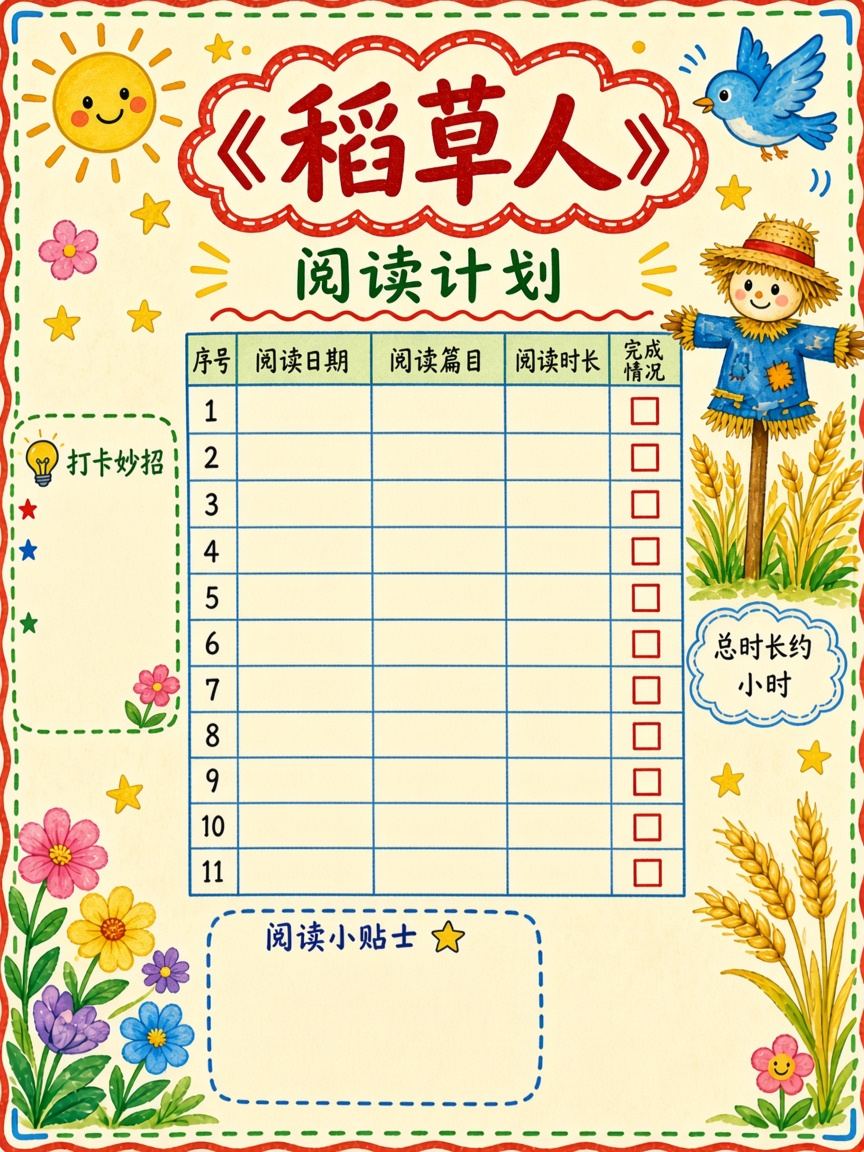
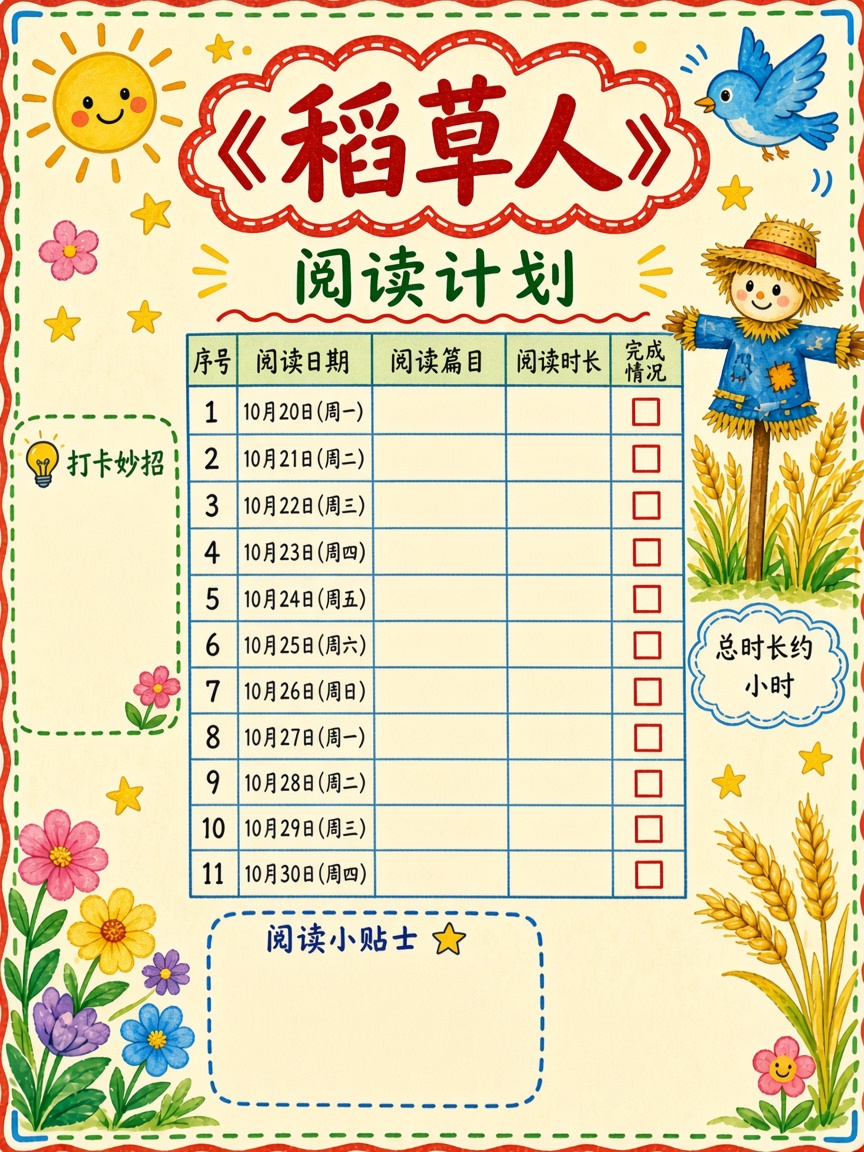
Deliver verified blank 《稻草人》 reading plan images
Provide a clean fill-in template with 手抄报 removed, table body
cleared, tip boxes emptied, duration number blank, and signatures removed.

diff --git a/WebContent/稻草人阅读计划-留白版.html b/WebContent/稻草人阅读计划-留白版.html
@@ -1,0 +1,233 @@
+<!DOCTYPE html>
+<html lang="zh-CN">
+<head>
+  <meta charset="UTF-8" />
+  <title>《稻草人》阅读计划</title>
+  <link href="https://fonts.googleapis.com/css2?family=Ma+Shan+Zheng&family=ZCOOL+KuaiLe&family=Noto+Sans+SC:wght@600;700&display=swap" rel="stylesheet" />
+  <style>
+    * { box-sizing: border-box; margin: 0; padding: 0; }
+    body { background: #c9b89a; }
+    .poster {
+      width: 1240px; height: 1754px; margin: 0 auto; position: relative;
+      background:
+        radial-gradient(circle at 15% 12%, #fff7c8 0%, transparent 35%),
+        radial-gradient(circle at 85% 18%, #e8f4ff 0%, transparent 30%),
+        #fff8dc;
+      overflow: hidden;
+      font-family: "Noto Sans SC", sans-serif;
+      color: #2b2418;
+    }
+    .border-outer {
+      position: absolute; inset: 22px;
+      border: 7px dashed #e85d4c;
+      border-radius: 28px;
+      pointer-events: none; z-index: 5;
+    }
+    .border-inner {
+      position: absolute; inset: 38px;
+      border: 3px dashed #3aa87a;
+      border-radius: 22px;
+      pointer-events: none; z-index: 5;
+    }
+    .content { position: relative; z-index: 2; height: 100%; padding: 70px 90px 60px; }
+    .title {
+      text-align: center; margin-bottom: 8px;
+    }
+    .title h1 {
+      display: inline-block;
+      font-family: "Ma Shan Zheng", cursive;
+      font-size: 86px; color: #e23b2e; letter-spacing: 0.08em;
+      padding: 8px 40px 12px;
+      border: 5px solid #e23b2e;
+      border-radius: 48% 52% 50% 50% / 60% 60% 40% 40%;
+      background: #fffdf5;
+      line-height: 1.1;
+    }
+    .subtitle {
+      margin-top: 14px;
+      font-family: "ZCOOL KuaiLe", cursive;
+      font-size: 34px; color: #2f9b57; letter-spacing: 0.35em;
+    }
+    .subtitle::before, .subtitle::after {
+      content: "═══";
+      color: #f0a030; margin: 0 10px; letter-spacing: 0;
+    }
+    .layout {
+      margin-top: 28px;
+      display: grid;
+      grid-template-columns: 210px 1fr 230px;
+      gap: 18px;
+      align-items: start;
+    }
+    .tips-card, .duration-card, .note-card {
+      border: 3px dashed #3aa87a;
+      border-radius: 16px;
+      background: rgba(255,255,255,0.55);
+      padding: 14px 12px 18px;
+      min-height: 220px;
+    }
+    .tips-card h3, .note-card h3, .duration-card h3 {
+      font-family: "ZCOOL KuaiLe", cursive;
+      font-size: 26px; text-align: center; margin-bottom: 10px;
+    }
+    .tips-card h3 { color: #2f9b57; }
+    .note-card { border-color: #4a90c8; min-height: 160px; }
+    .note-card h3 { color: #2f78b0; }
+    .duration-card {
+      border: 4px solid #4a90c8;
+      border-radius: 50%;
+      width: 200px; height: 200px;
+      margin: 20px auto 0;
+      display: flex; flex-direction: column; align-items: center; justify-content: center;
+      background: #eef7ff;
+      box-shadow: 0 0 0 6px rgba(74,144,200,0.12);
+    }
+    .duration-card h3 { color: #2f78b0; font-size: 28px; margin: 0; }
+    .duration-card .blank {
+      width: 70px; height: 36px; border-bottom: 3px solid #2f78b0; margin: 8px 0 4px;
+    }
+    .duration-card .unit { font-family: "ZCOOL KuaiLe", cursive; font-size: 26px; color: #2f78b0; }
+    table {
+      width: 100%; border-collapse: collapse;
+      background: rgba(255,255,255,0.7);
+      border: 3px solid #5ba3d0;
+      border-radius: 8px;
+      overflow: hidden;
+    }
+    th {
+      background: #bfe3f7; color: #1e4f70;
+      font-family: "ZCOOL KuaiLe", cursive;
+      font-size: 22px; padding: 12px 6px;
+      border: 2px solid #5ba3d0;
+    }
+    td {
+      height: 58px; border: 2px solid #5ba3d0;
+      text-align: center; vertical-align: middle;
+      background: #fffdf8;
+    }
+    td.num {
+      width: 10%;
+      font-family: "ZCOOL KuaiLe", cursive;
+      font-size: 22px; color: #333;
+    }
+    td.date { width: 22%; }
+    td.title { width: 28%; }
+    td.duration { width: 20%; }
+    td.status { width: 20%; }
+    .box {
+      display: inline-block; width: 26px; height: 26px;
+      border: 3px solid #e23b2e; border-radius: 3px; background: #fff;
+    }
+    .scarecrow { width: 180px; margin: 0 auto; display: block; }
+    .side-right { text-align: center; padding-top: 10px; }
+    .footer {
+      margin-top: 24px;
+    }
+    .float { position: absolute; z-index: 3; pointer-events: none; }
+    .sun { top: 70px; left: 70px; width: 90px; }
+    .bird { top: 90px; right: 90px; width: 80px; }
+    .flowers { bottom: 70px; left: 70px; width: 140px; }
+    .wheat { bottom: 80px; right: 70px; width: 100px; }
+    .star1 { top: 210px; left: 100px; width: 28px; }
+    .star2 { top: 240px; right: 120px; width: 24px; }
+  </style>
+</head>
+<body>
+  <div class="poster">
+    <div class="border-outer"></div>
+    <div class="border-inner"></div>
+
+    <svg class="float sun" viewBox="0 0 90 90"><circle cx="45" cy="45" r="18" fill="#f6d23a" stroke="#e09a20" stroke-width="3"/><g stroke="#e09a20" stroke-width="4" stroke-linecap="round"><line x1="45" y1="6" x2="45" y2="18"/><line x1="45" y1="72" x2="45" y2="84"/><line x1="6" y1="45" x2="18" y2="45"/><line x1="72" y1="45" x2="84" y2="45"/><line x1="16" y1="16" x2="24" y2="24"/><line x1="66" y1="66" x2="74" y2="74"/><line x1="74" y1="16" x2="66" y2="24"/><line x1="24" y1="66" x2="16" y2="74"/></g><circle cx="38" cy="42" r="2.5" fill="#333"/><circle cx="52" cy="42" r="2.5" fill="#333"/><path d="M38 52 Q45 58 52 52" fill="none" stroke="#333" stroke-width="2.5" stroke-linecap="round"/></svg>
+    <svg class="float bird" viewBox="0 0 80 40"><path d="M6 24 Q28 4 40 20 Q52 4 74 24" fill="none" stroke="#4a90c8" stroke-width="4" stroke-linecap="round"/><circle cx="40" cy="22" r="3.5" fill="#e23b2e"/></svg>
+    <svg class="float star1" viewBox="0 0 28 28"><polygon points="14,1 17,10 27,10 19,16 22,26 14,20 6,26 9,16 1,10 11,10" fill="#f6d23a"/></svg>
+    <svg class="float star2" viewBox="0 0 24 24"><polygon points="12,1 14.5,8 22,8 16,12.5 18,20 12,16 6,20 8,12.5 2,8 9.5,8" fill="#f6d23a"/></svg>
+    <svg class="float flowers" viewBox="0 0 140 90">
+      <circle cx="30" cy="40" r="12" fill="#ff6b9d"/><circle cx="30" cy="28" r="10" fill="#ff8fb3"/><circle cx="18" cy="40" r="10" fill="#ff8fb3"/><circle cx="42" cy="40" r="10" fill="#ff8fb3"/><circle cx="30" cy="40" r="6" fill="#f6d23a"/>
+      <circle cx="70" cy="55" r="11" fill="#7c6bff"/><circle cx="70" cy="44" r="9" fill="#9b8cff"/><circle cx="59" cy="55" r="9" fill="#9b8cff"/><circle cx="81" cy="55" r="9" fill="#9b8cff"/><circle cx="70" cy="55" r="5" fill="#f6d23a"/>
+      <circle cx="105" cy="35" r="12" fill="#4aa3ff"/><circle cx="105" cy="23" r="10" fill="#78b9ff"/><circle cx="93" cy="35" r="10" fill="#78b9ff"/><circle cx="117" cy="35" r="10" fill="#78b9ff"/><circle cx="105" cy="35" r="6" fill="#f6d23a"/>
+      <circle cx="50" cy="20" r="10" fill="#f6d23a"/><circle cx="50" cy="11" r="8" fill="#ffe27a"/><circle cx="41" cy="20" r="8" fill="#ffe27a"/><circle cx="59" cy="20" r="8" fill="#ffe27a"/><circle cx="50" cy="20" r="4" fill="#e09a20"/>
+    </svg>
+    <svg class="float wheat" viewBox="0 0 100 120">
+      <line x1="30" y1="120" x2="30" y2="40" stroke="#c48a1a" stroke-width="4"/>
+      <ellipse cx="30" cy="28" rx="8" ry="16" fill="#f0c14a"/>
+      <ellipse cx="18" cy="45" rx="7" ry="14" fill="#e8b84a" transform="rotate(-28 18 45)"/>
+      <ellipse cx="42" cy="45" rx="7" ry="14" fill="#e8b84a" transform="rotate(28 42 45)"/>
+      <line x1="70" y1="120" x2="70" y2="50" stroke="#c48a1a" stroke-width="4"/>
+      <ellipse cx="70" cy="38" rx="7" ry="14" fill="#f0c14a"/>
+      <ellipse cx="58" cy="55" rx="6" ry="12" fill="#e8b84a" transform="rotate(-28 58 55)"/>
+      <ellipse cx="82" cy="55" rx="6" ry="12" fill="#e8b84a" transform="rotate(28 82 55)"/>
+    </svg>
+
+    <div class="content">
+      <div class="title">
+        <h1>《稻草人》</h1>
+        <div class="subtitle">阅读计划</div>
+      </div>
+
+      <div class="layout">
+        <aside>
+          <div class="tips-card">
+            <h3>💡 打卡妙招</h3>
+            <!-- 正文留白 -->
+          </div>
+        </aside>
+
+        <main>
+          <table>
+            <thead>
+              <tr>
+                <th>序号</th>
+                <th>阅读日期</th>
+                <th>阅读篇目</th>
+                <th>阅读时长</th>
+                <th>完成情况</th>
+              </tr>
+            </thead>
+            <tbody>
+              <tr><td class="num">1</td><td class="date"></td><td class="title"></td><td class="duration"></td><td class="status"><span class="box"></span></td></tr>
+              <tr><td class="num">2</td><td class="date"></td><td class="title"></td><td class="duration"></td><td class="status"><span class="box"></span></td></tr>
+              <tr><td class="num">3</td><td class="date"></td><td class="title"></td><td class="duration"></td><td class="status"><span class="box"></span></td></tr>
+              <tr><td class="num">4</td><td class="date"></td><td class="title"></td><td class="duration"></td><td class="status"><span class="box"></span></td></tr>
+              <tr><td class="num">5</td><td class="date"></td><td class="title"></td><td class="duration"></td><td class="status"><span class="box"></span></td></tr>
+              <tr><td class="num">6</td><td class="date"></td><td class="title"></td><td class="duration"></td><td class="status"><span class="box"></span></td></tr>
+              <tr><td class="num">7</td><td class="date"></td><td class="title"></td><td class="duration"></td><td class="status"><span class="box"></span></td></tr>
+              <tr><td class="num">8</td><td class="date"></td><td class="title"></td><td class="duration"></td><td class="status"><span class="box"></span></td></tr>
+              <tr><td class="num">9</td><td class="date"></td><td class="title"></td><td class="duration"></td><td class="status"><span class="box"></span></td></tr>
+              <tr><td class="num">10</td><td class="date"></td><td class="title"></td><td class="duration"></td><td class="status"><span class="box"></span></td></tr>
+              <tr><td class="num">11</td><td class="date"></td><td class="title"></td><td class="duration"></td><td class="status"><span class="box"></span></td></tr>
+            </tbody>
+          </table>
+        </main>
+
+        <aside class="side-right">
+          <svg class="scarecrow" viewBox="0 0 160 200">
+            <line x1="80" y1="70" x2="80" y2="185" stroke="#8b5a2b" stroke-width="7"/>
+            <line x1="35" y1="95" x2="125" y2="95" stroke="#8b5a2b" stroke-width="6"/>
+            <circle cx="80" cy="55" r="28" fill="#f0c14a" stroke="#c48a1a" stroke-width="3"/>
+            <ellipse cx="80" cy="34" rx="34" ry="10" fill="#e23b2e"/>
+            <rect x="60" y="14" width="40" height="24" rx="6" fill="#e23b2e"/>
+            <circle cx="70" cy="52" r="3" fill="#333"/><circle cx="90" cy="52" r="3" fill="#333"/>
+            <path d="M68 64 Q80 74 92 64" fill="none" stroke="#333" stroke-width="3" stroke-linecap="round"/>
+            <path d="M48 95 Q80 135 112 95 L120 155 Q80 175 40 155 Z" fill="#4a90c8" stroke="#2f6f9a" stroke-width="3"/>
+            <line x1="55" y1="42" x2="40" y2="58" stroke="#e8b84a" stroke-width="3"/>
+            <line x1="105" y1="42" x2="120" y2="58" stroke="#e8b84a" stroke-width="3"/>
+            <path d="M30 185 Q80 165 130 185" fill="none" stroke="#3aa87a" stroke-width="4"/>
+          </svg>
+          <div class="duration-card">
+            <h3>总时长约</h3>
+            <div class="blank"></div>
+            <div class="unit">小时</div>
+          </div>
+        </aside>
+      </div>
+
+      <div class="footer">
+        <div class="note-card">
+          <h3>⭐ 阅读小贴士</h3>
+          <!-- 正文留白，无签名栏 -->
+        </div>
+      </div>
+    </div>
+  </div>
+</body>
+</html>
